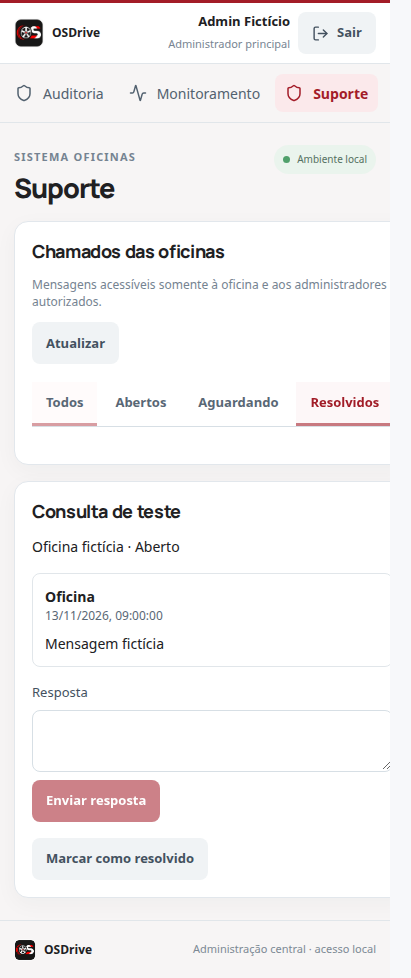
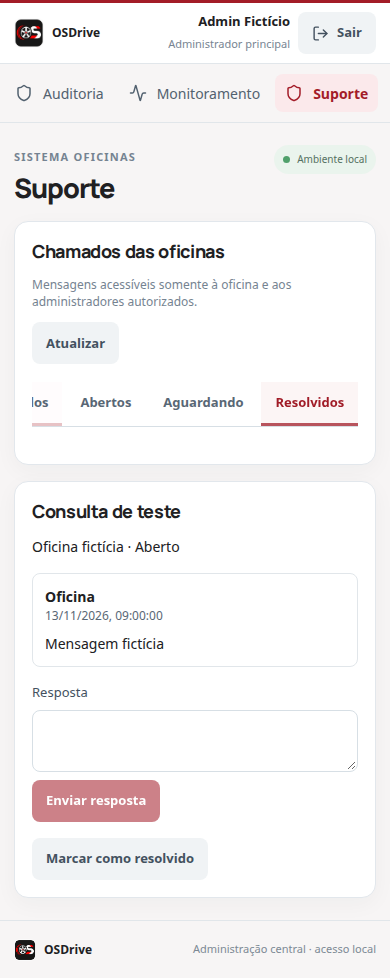
docs(visual): conferir suporte móvel após correção de largura

diff --git a/docs/mapeamento-visual/CHECKLIST.md b/docs/mapeamento-visual/CHECKLIST.md
@@ -137,7 +137,7 @@ Estados: capturada, pendente, bloqueada e não aplicável.
 | stripe-oficina-desktop | Configurações da oficina | Assinatura e pagamentos da oficina — Componente real em Chromium com API e pagamentos fictícios; não comprova entrega de webhook ou cobrança externa. | [`capturas/14-configuracoes/stripe-oficina-desktop.png`](./capturas/14-configuracoes/stripe-oficina-desktop.png) | capturada | 2026-11-05 | ffa6ae17881c2848a19a373d48599d99fc35ef4f | CI #583. Dados exclusivamente fictícios; integração PostgreSQL validada separadamente. |
 | stripe-oficina-mobile | Configurações da oficina | Assinatura e pagamentos da oficina — Componente real em Chromium com API e pagamentos fictícios; não comprova entrega de webhook ou cobrança externa. | [`capturas/14-configuracoes/stripe-oficina-mobile.png`](./capturas/14-configuracoes/stripe-oficina-mobile.png) | capturada | 2026-11-05 | ffa6ae17881c2848a19a373d48599d99fc35ef4f | CI #583. Dados exclusivamente fictícios; integração PostgreSQL validada separadamente. |
 | monitoramento-mobile | Painel Administrativo Central | Monitoramento — falhas por integração — Interface real com dados fictícios; não comprova fluxo autenticado na homologação. | [`capturas/17-painel-admin-central/monitoramento-mobile.png`](./capturas/17-painel-admin-central/monitoramento-mobile.png) | capturada | 2026-11-13 | 1a45971dc80ce77954c95612f39891bada77d5b4 | Regressão Playwright com API fictícia. |
-| suporte-mobile | Painel Administrativo Central | Suporte — conversa e filtros — Interface real com dados fictícios; não comprova fluxo autenticado na homologação. | [`capturas/17-painel-admin-central/suporte-mobile.png`](./capturas/17-painel-admin-central/suporte-mobile.png) | capturada | 2026-11-13 | 1a45971dc80ce77954c95612f39891bada77d5b4 | Regressão Playwright com API fictícia. |
+| suporte-mobile | Painel Administrativo Central | Suporte — conversa e filtros — Interface real com dados fictícios; não comprova fluxo autenticado na homologação. | [`capturas/17-painel-admin-central/suporte-mobile.png`](./capturas/17-painel-admin-central/suporte-mobile.png) | capturada | 2026-11-13 | c69d1cbbb64b78f9fa1be3a2495919f52099ec47 | Regressão Playwright com API fictícia. |
 
 ## Fluxos
 

diff --git a/docs/mapeamento-visual/INDEX.md b/docs/mapeamento-visual/INDEX.md
@@ -740,7 +740,7 @@ Interface real com dados fictícios; não comprova fluxo autenticado na homologa
 
 [![Suporte — conversa e filtros](./capturas/17-painel-admin-central/suporte-mobile.png)](./capturas/17-painel-admin-central/suporte-mobile.png)
 
-Estado: capturada · mobile · captura 2026-11-13 · commit de origem: 1a45971dc80ce77954c95612f39891bada77d5b4 · [arquivo completo](./capturas/17-painel-admin-central/suporte-mobile.png)
+Estado: capturada · mobile · captura 2026-11-13 · commit de origem: c69d1cbbb64b78f9fa1be3a2495919f52099ec47 · [arquivo completo](./capturas/17-painel-admin-central/suporte-mobile.png)
 
 ## 18 — Resultados da oficina
 
